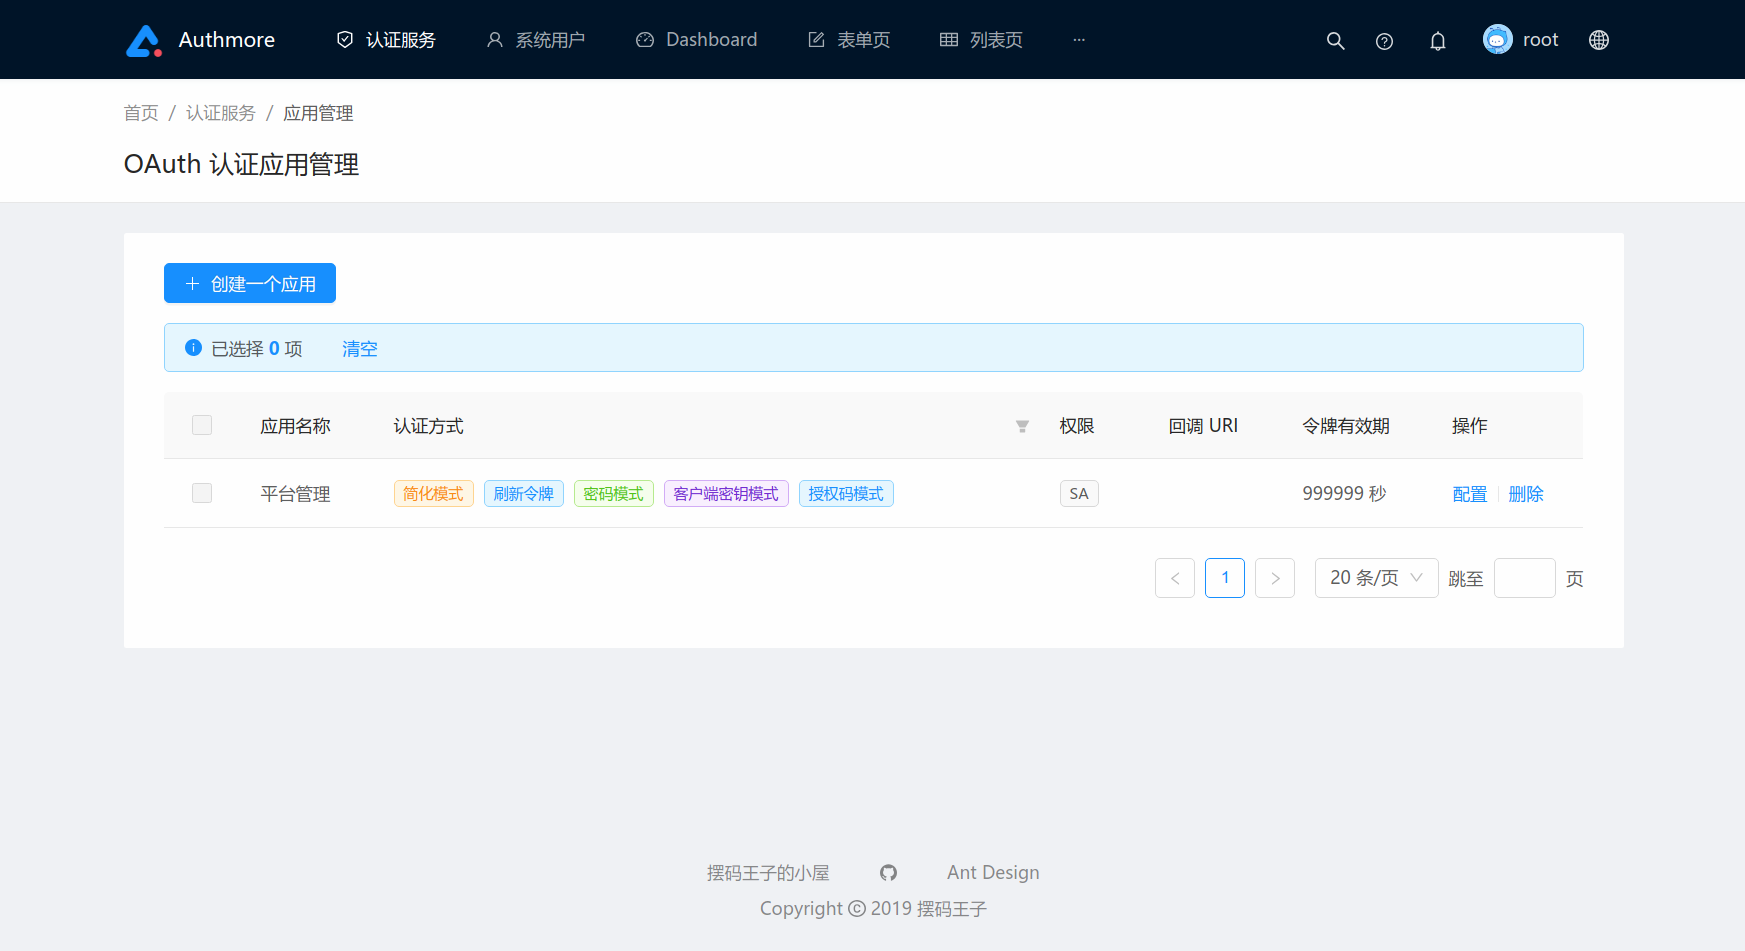
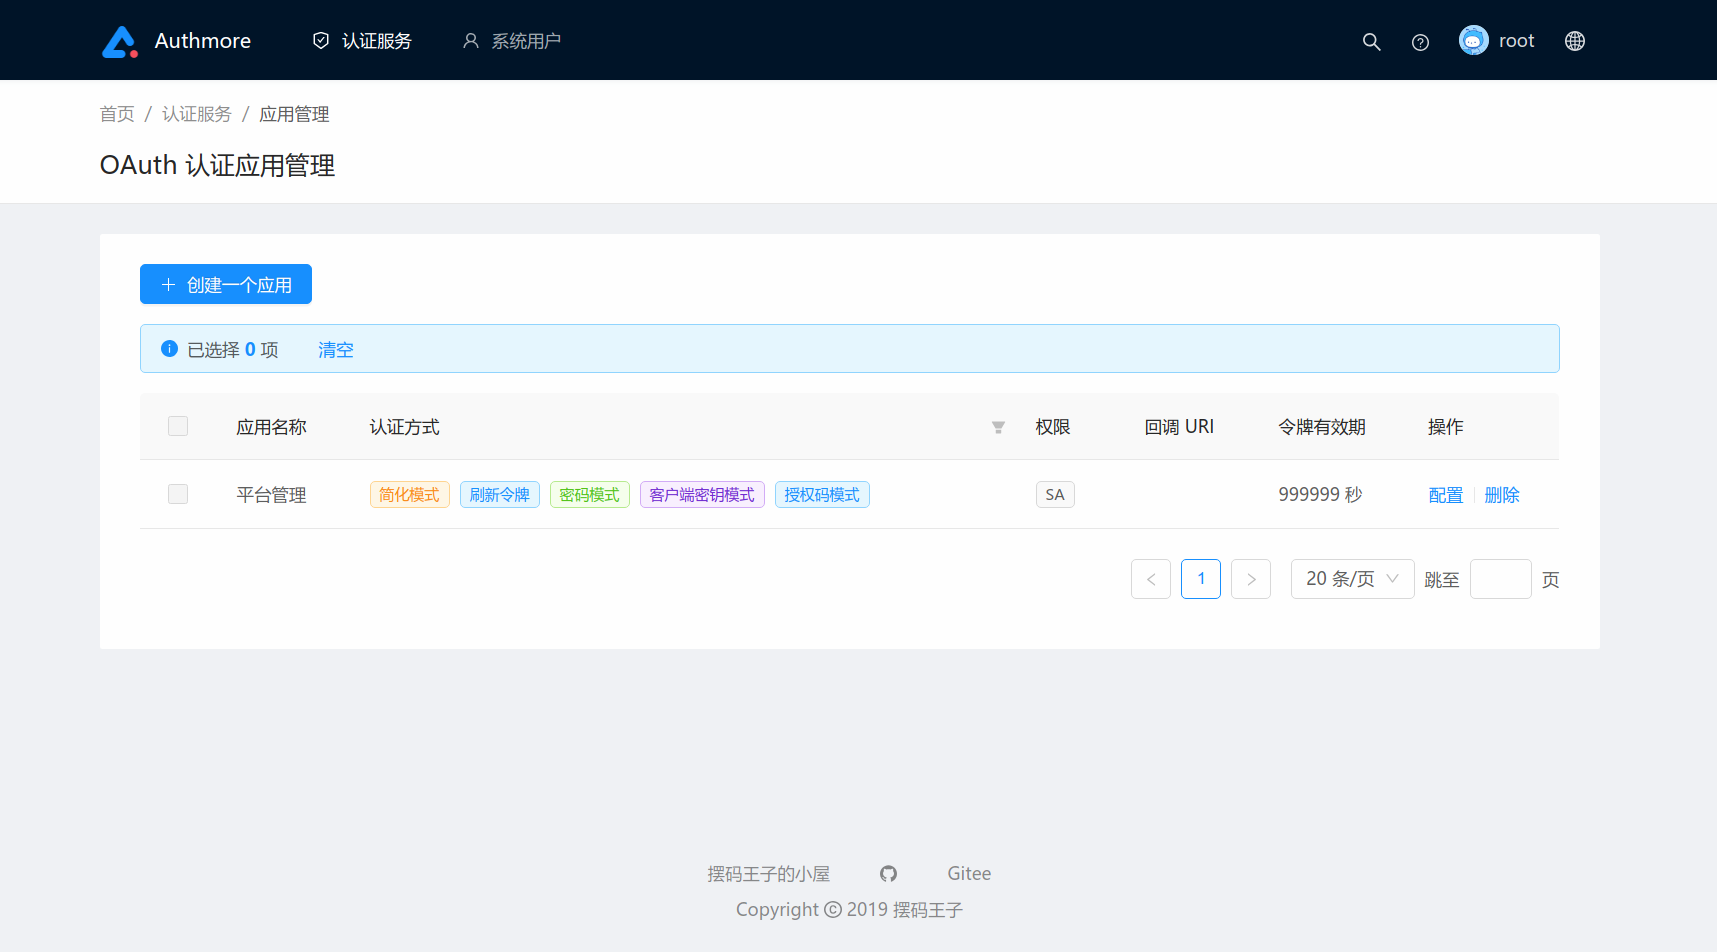
创建客户端应用开头

diff --git a/guide/README.md b/guide/README.md
@@ -1,28 +1,34 @@
-# 简介
+# 开始使用
 
-[Authmore](https://gitee.com/zbl1996/authmore/) 是一个开源的、基于 OAuth2.0 打造的社会化网络下的跨应用认证授权开发套件，它的设计灵感来源于 [Spring Security](https://spring.io/projects/spring-security/)。它由应用管理平台、客户端 SDK 及资源服务端 SDK 组成，主要用于服务端应用的第三方登录、跨应用的用户数据交换时的认证，以及企业内部系统微服务的鉴权。
+[Authmore](https://gitee.com/zbl1996/authmore/) 是一个开源的、基于 OAuth2.0 打造的社会化网络下的跨应用认证授权开发套件，它的设计灵感来源于 [Spring Security](https://spring.io/projects/spring-security/)。它由应用认证平台、客户端 SDK 及资源服务端 SDK 组成，主要用于服务端应用的第三方登录、跨应用的用户数据交换时的认证，以及企业内部系统微服务的鉴权。
 
-## 开始使用
+## 安装
 
 ::: tip 环境准备
-管理平台需要在本机安装 Docker，如果你还没有了解过 Docker，请参考 [Docker 官网](https://docs.docker.com/install/)
+认证平台需要在本机安装 Docker，如果你还没有了解过 Docker，请参考 [Docker 官网](https://docs.docker.com/install/)
 :::
 
-Authmore 提供了一个管理平台的 Docker 镜像，鉴于国内网络问题，该镜像目前托管在[阿里云容器镜像平台](https://cr.console.aliyun.com/cn-beijing/instances/images)，现在假设你已经熟悉 Docker 的使用了。
+Authmore 提供了一个认证平台的 Docker 镜像，鉴于国内网络问题，该镜像目前托管在[阿里云容器镜像平台](https://cr.console.aliyun.com/cn-beijing/instances/images)，现在假设你已经熟悉 Docker 的使用了。
 
-你可以执行这条命令来将 Authmore 管理平台的 Docker 镜像拉取到本地：
+你可以执行这条命令来将 Authmore 认证平台的 Docker 镜像拉取到本地：
 
 ```bash
-$ docker pull registry.cn-beijing.aliyuncs.com/authmore-ui:latest
+docker pull registry.cn-beijing.aliyuncs.com/authmore/admin:latest
 ```
 
-在 Docker 中运行一个 Authmore 管理平台的容器：
+现在开始使用 Docker 启动一个 Authmore 认证平台的容器
 
-::: tip 端口映射
+::: tip 端口
 镜像默认暴露容器的 80 端口，你可以通过 -p 选项指定端口映射的规则
 :::
+::: tip 外部依赖
+认证平台需要依托 MongoDB 和 Redis，因此需要通过 -e 选项指定 MongoDB 和 Redis 的主机名和端口号，参数根据实际环境而定
+:::
+
 ```bash
-$ docker run --name authmore-ui registry.cn-beijing.aliyuncs.com/authmore-ui:latest
+docker run --name authmore-ui registry.cn-beijing.aliyuncs.com/authmore-ui:latest \
+  -p 80:8080 -e MONGO_HOST='172.10.0.1' -e MONGO_PORT='27017' \
+  -e REDIS_HOST='172.10.0.2' -e REDIS_PORT='6379'
 ```
 
 现在假设你已经成功地创建并启动了这个容器，并且容器的 80 端口映射到主机的 8080 端口。

diff --git a/guide/create-client.md b/guide/create-client.md
@@ -1,2 +1,9 @@
 # 创建应用
 
+OAuth2.0 协议中包含了四种基本的认证模式，即授权码模式（Authorization Code）、密码模式（Password）、客户端凭证模式（Client Credentials）和简化模式（Implicit）。其中，授权码模式是数据交换步骤最多的，同时也是最安全的，最适合开放平台及第三方的认证授权方案。
+这里的应用及具备访问认证平台下某个资源服务的客户端。
+
+## 客户端（Client）
+
+现在我们以授权码模式为例，创建一个**邮件阅读器**应用，它在 OAuth 协议中以客户端的身份存在，是用户数据的访问者，也就是认证和授权的主要对象。
+邮件应用作为**客户端**访问作为**资源服务**的**邮箱**应用中的数据，阅读器用户就需要使用邮箱应用的身份凭证为阅读器应用授权，只有用户明确允许阅读器应用访问该用户的邮箱内容时，这个读访问是合法的。Authmore 所做的正是如何保证邮箱应用中的数据总是合法地被访问：认证平台在得到用户的确认后为阅读器应用颁发凭证，邮箱服务通过 Web API 和认证平台进行通信，来验证阅读器所提供凭证的有效性，最终决定是否对访问给予许可。

diff --git a/guide/manage.md b/guide/manage.md
@@ -1,4 +1,4 @@
-# 管理平台
+# 认证平台
 
 ## 用户登录
 
